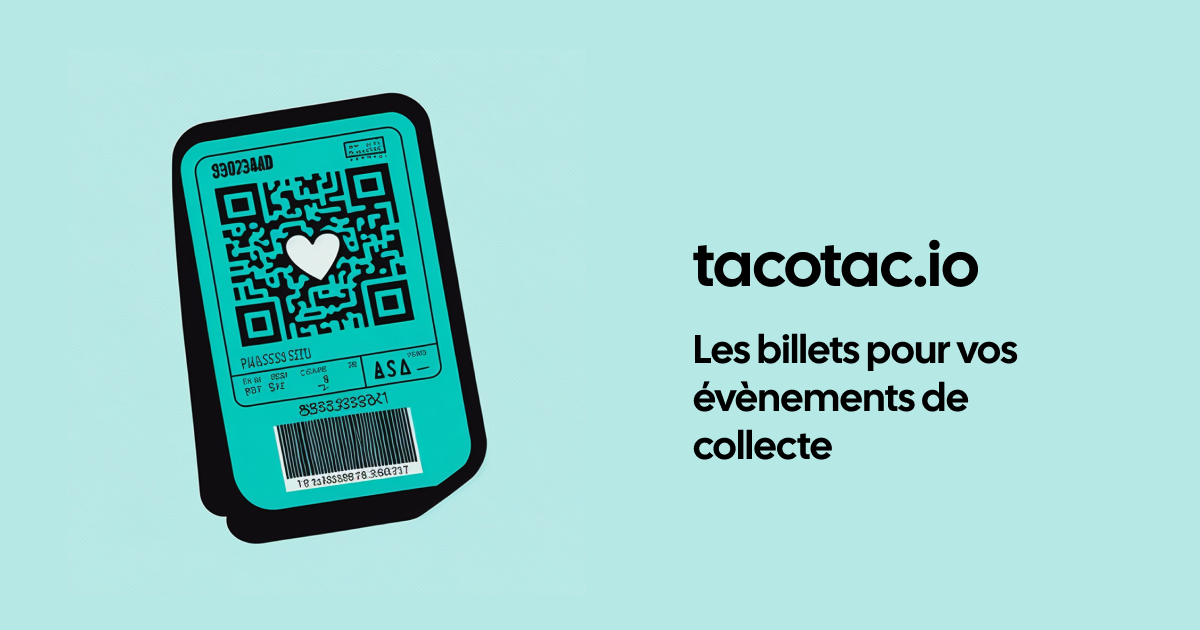
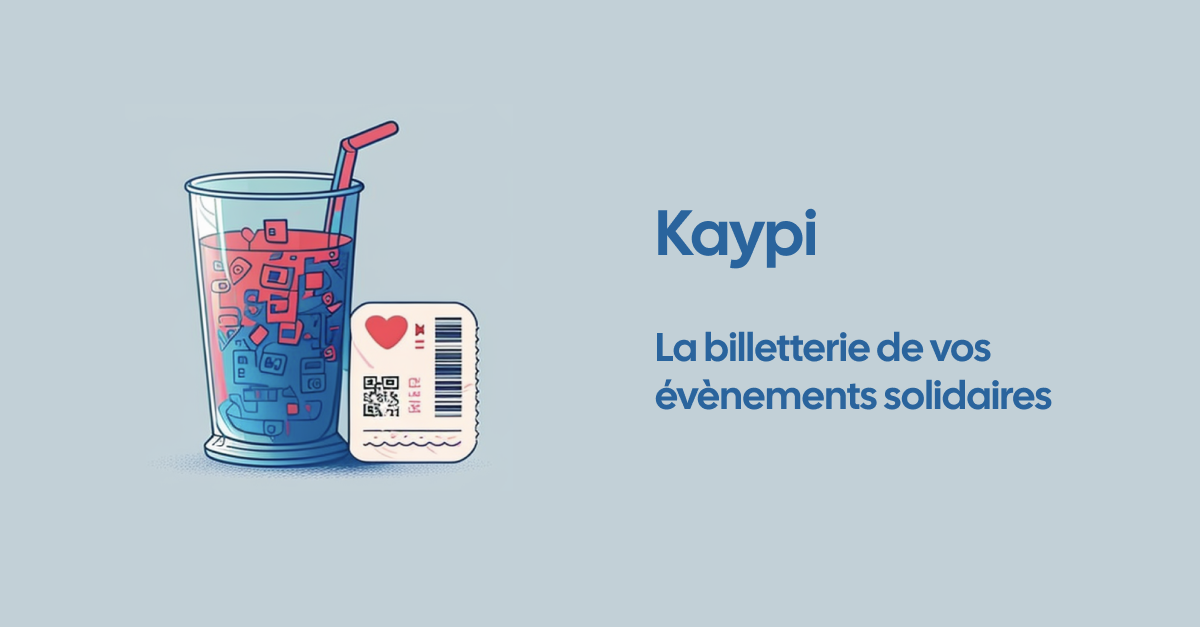
meta

Changed region(s): [[0.0308, 0.0606, 0.4933, 0.9697], [0.5242, 0.5152, 0.8942, 0.7273], [0.5242, 0.3333, 0.8325, 0.4545]]

diff --git a/apps/site/app/layout.tsx b/apps/site/app/layout.tsx
@@ -27,12 +27,12 @@ const RootLayout = ({ children }) => {
           <link rel="icon" href="/favicon.ico" />
           {/* title and description */}
           <meta name="description" content="La billeterie de vos évènements de collecte" />
-          <meta name="og:title" content="tacotac.io" />
+          <meta name="og:title" content="kaypi" />
           <meta name="og:description" content="La billeterie de vos évènements de collecte" />
           <meta name="og:image" content="/og-image.png" />
           <meta property="og:image:width" content="1200" />
           <meta property="og:image:height" content="630" />
-          <meta property="og:url" content="https://tacotac.io" />
+          <meta property="og:url" content="https://kaypi.fr" />
           <meta property="og:type" content="website" />
           <meta name="twitter:card" content="summary_large_image" />
           <meta name="twitter:title" content="Napol.io" />
